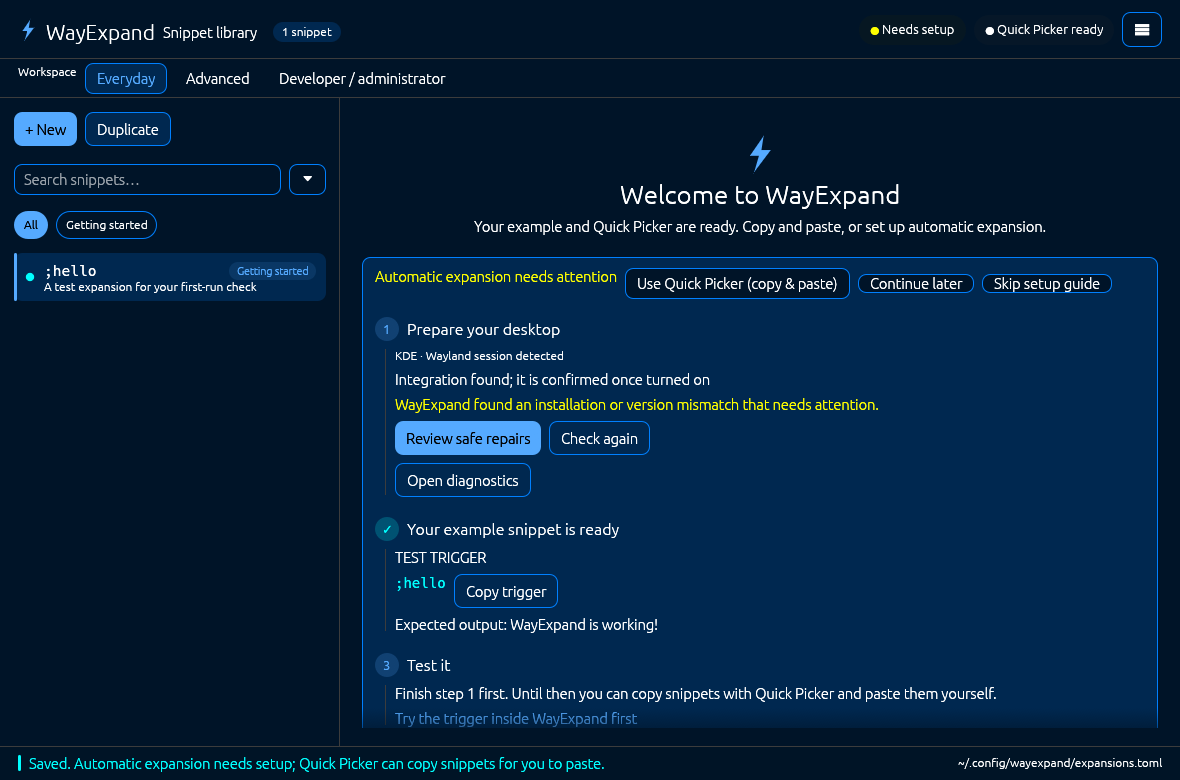
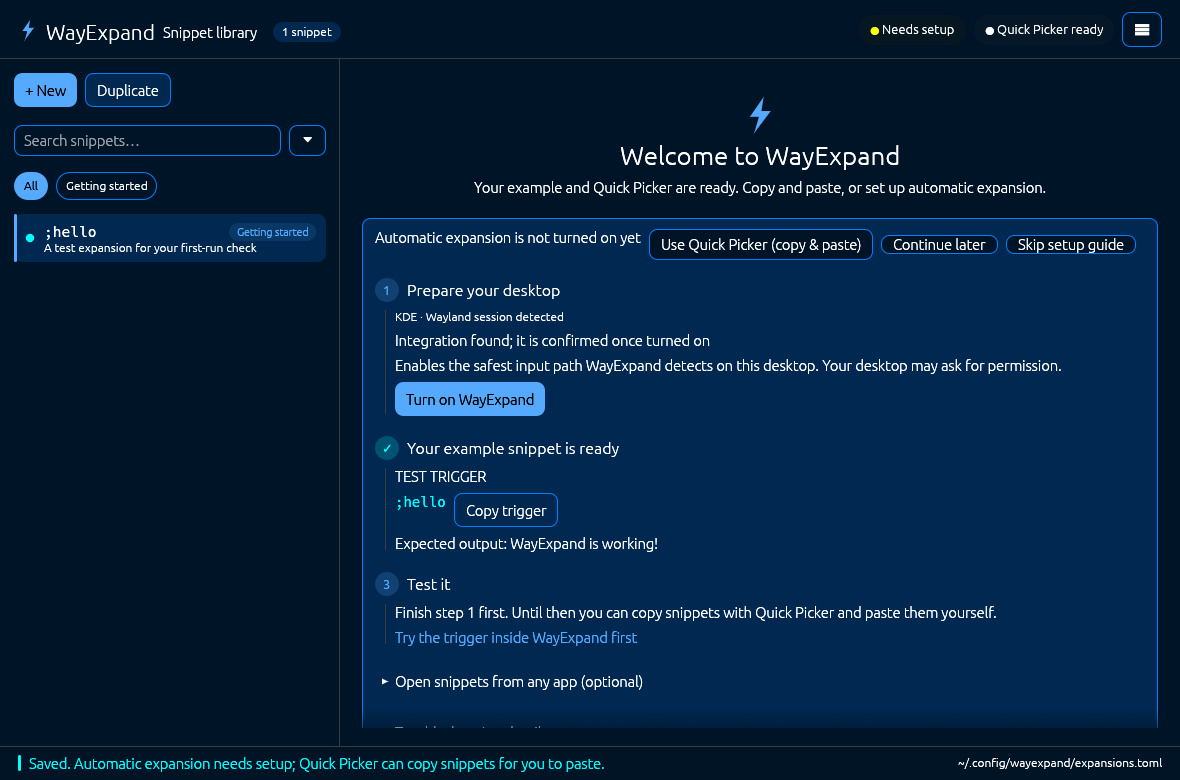
Show a fresh install's first step as a next step, not a problem
Before WayExpand is turned on nothing has failed, so the guide's headline
says it is not turned on yet (muted) instead of 'needs attention', and
step 1 shows only Turn on WayExpand without an Open diagnostics button.
The setup dialog's Continue button uses the primary style.

gui-screenshot.sh can render this state (WAYEXPAND_GUI_SCREENSHOT_INSTALLED)
by answering the sandbox's install-check as ready; the README screenshot now
shows what a correctly installed user sees.

diff --git a/crates/gui/src/app/first_run.rs b/crates/gui/src/app/first_run.rs
@@ -694,6 +694,14 @@ impl GuiApp {
             .filter(|major| !major.is_empty() && major.chars().all(|ch| ch.is_ascii_digit()))
             .map(str::to_owned);
 
+        // Nothing has failed before a new user turns WayExpand on, so that
+        // state reads as a neutral next step rather than a problem.
+        let not_turned_on = !checking
+            && !daemon_running
+            && !ibus_only
+            && self
+                .current_next_step()
+                .is_none_or(|(problem, _)| problem != super::Problem::InstallationIncomplete);
         let compact_first_run = ui.available_width() < 400.0;
         egui::ScrollArea::vertical()
             .auto_shrink([false, false])
@@ -768,18 +776,24 @@ impl GuiApp {
                         ui.label(
                             RichText::new(if setup_check_pending {
                                 self.strings.first_run_checking()
+                            } else if not_turned_on && outcome == FirstRunOutcome::SetupIncomplete {
+                                self.strings.outcome_not_turned_on()
                             } else {
                                 first_run_outcome_label(&self.strings, outcome)
                             })
                             .strong()
-                            .color(if setup_check_pending {
-                                palette.muted
-                            } else {
-                                match outcome {
-                                    FirstRunOutcome::WorkingInTestedApplication => palette.success,
-                                    _ => palette.warning,
-                                }
-                            }),
+                            .color(
+                                if setup_check_pending || not_turned_on {
+                                    palette.muted
+                                } else {
+                                    match outcome {
+                                        FirstRunOutcome::WorkingInTestedApplication => {
+                                            palette.success
+                                        }
+                                        _ => palette.warning,
+                                    }
+                                },
+                            ),
                         );
                         if !self.config.expansion.is_empty() && picker_copy_allowed {
                             // Copy and paste is the clear next action only
@@ -964,6 +978,7 @@ impl GuiApp {
                             }
                         }
                         if !route_ready
+                            && !not_turned_on
                             && theme::secondary_button(
                                 ui,
                                 palette,

diff --git a/crates/gui/src/app/setup.rs b/crates/gui/src/app/setup.rs
@@ -1757,14 +1757,16 @@ impl GuiApp {
             }
             ui.add_space(12.0);
             ui.horizontal(|ui| {
+                let ready = (!self.setup_system_integration_required
+                    || self.setup_system_integration_acknowledged)
+                    && self.setup_consent_acknowledged
+                    && self.setup_task.is_none();
+                let palette = Palette::for_pack(self.colorpack, self.dark_mode);
                 if ui
-                    .add_enabled(
-                        (!self.setup_system_integration_required
-                            || self.setup_system_integration_acknowledged)
-                            && self.setup_consent_acknowledged
-                            && self.setup_task.is_none(),
-                        egui::Button::new(self.strings.setup_continue()),
-                    )
+                    .add_enabled_ui(ready, |ui| {
+                        theme::primary_button(ui, &palette, self.strings.setup_continue())
+                    })
+                    .inner
                     .clicked()
                 {
                     self.setup_consent_open = false;

diff --git a/crates/gui/src/tests.rs b/crates/gui/src/tests.rs
@@ -2646,6 +2646,7 @@ fn first_run_screen_renders_and_creates_a_real_test_expansion() {
             "Configured, awaiting test",
             "Automatic replacement unavailable · copy and paste",
             "Automatic expansion needs attention",
+            "Automatic expansion is not turned on yet",
         ]
         .iter()
         .any(|state| guide_semantics.contains(*state)),

diff --git a/docs/GUI.md b/docs/GUI.md
@@ -637,7 +637,7 @@ CyberDuctTape as the example organization:
 ```sh
 export WAYEXPAND_GUI_SCREENSHOT_PACK=terminal_blue
 : > /tmp/wayexpand-first-run.toml && chmod 600 /tmp/wayexpand-first-run.toml
-WAYEXPAND_GUI_SCREENSHOT_ONBOARDING=1 \
+WAYEXPAND_GUI_SCREENSHOT_ONBOARDING=1 WAYEXPAND_GUI_SCREENSHOT_INSTALLED=1 \
     scripts/gui-screenshot.sh /tmp/wayexpand-first-run.toml \
     docs/images/wayexpand-first-run.png 1180x780
 WAYEXPAND_GUI_SCREENSHOT_DAEMON=1 WAYEXPAND_GUI_SCREENSHOT_VIEW=preview \
@@ -649,7 +649,7 @@ WAYEXPAND_GUI_SCREENSHOT_DAEMON=1 WAYEXPAND_GUI_SCREENSHOT_PICKER=1 \
 scripts/make-social-preview.sh
 ```
 
-![WayExpand's first-run guide with automatic setup needing attention and Quick Picker ready for copy and paste](images/wayexpand-first-run.png)
+![WayExpand's first-run guide on a fresh install: automatic expansion not turned on yet, one Turn on WayExpand button, and the example snippet ready](images/wayexpand-first-run.png)
 
 ![WayExpand's editor with the Matcher preview expanding a support reply](images/wayexpand-editor-try-it-live.png)
 

diff --git a/CHANGELOG.md b/CHANGELOG.md
@@ -12,7 +12,12 @@ All notable changes to WayExpand are documented here.
   example the guide adds by itself is no longer offered as "Undo (1)". The
   optional picker shortcut button moved into its collapsed section, the
   workspace switcher waits until the guide is closed, and step 1 no longer
-  says "Checking integration support" after the check has finished.
+  says "Checking integration support" after the check has finished. Before
+  WayExpand is turned on, the guide's headline reads "Automatic expansion is
+  not turned on yet" instead of a warning that it "needs attention", step 1
+  offers only *Turn on WayExpand*, and the setup dialog's *Continue setup* is
+  the highlighted button. `scripts/gui-screenshot.sh` gains
+  `WAYEXPAND_GUI_SCREENSHOT_INSTALLED=1` to render that fresh-install state.
   `wayexpand setup` shows full detail only for the route it asks you to
   accept (`explain-backend` lists the rest) and explains the compatibility
   modes only if you decline it. On KDE, `doctor`, `setup --check` and `why`

diff --git a/README.md b/README.md
@@ -192,7 +192,7 @@ export PATH="$HOME/.local/bin:$PATH"
 
 ## Your first minute
 
-![WayExpand's first-run guide showing the ready example snippet, automatic setup status, and copy-only Quick Picker option](docs/images/wayexpand-first-run.png)
+![WayExpand's first-run guide on a fresh install: one Turn on WayExpand button, the ready example snippet, and the copy-only Quick Picker option](docs/images/wayexpand-first-run.png)
 
 Quick Picker opens across supported sessions, but it inserts directly only
 when the route can verify the destination and supports atomic insertion.
